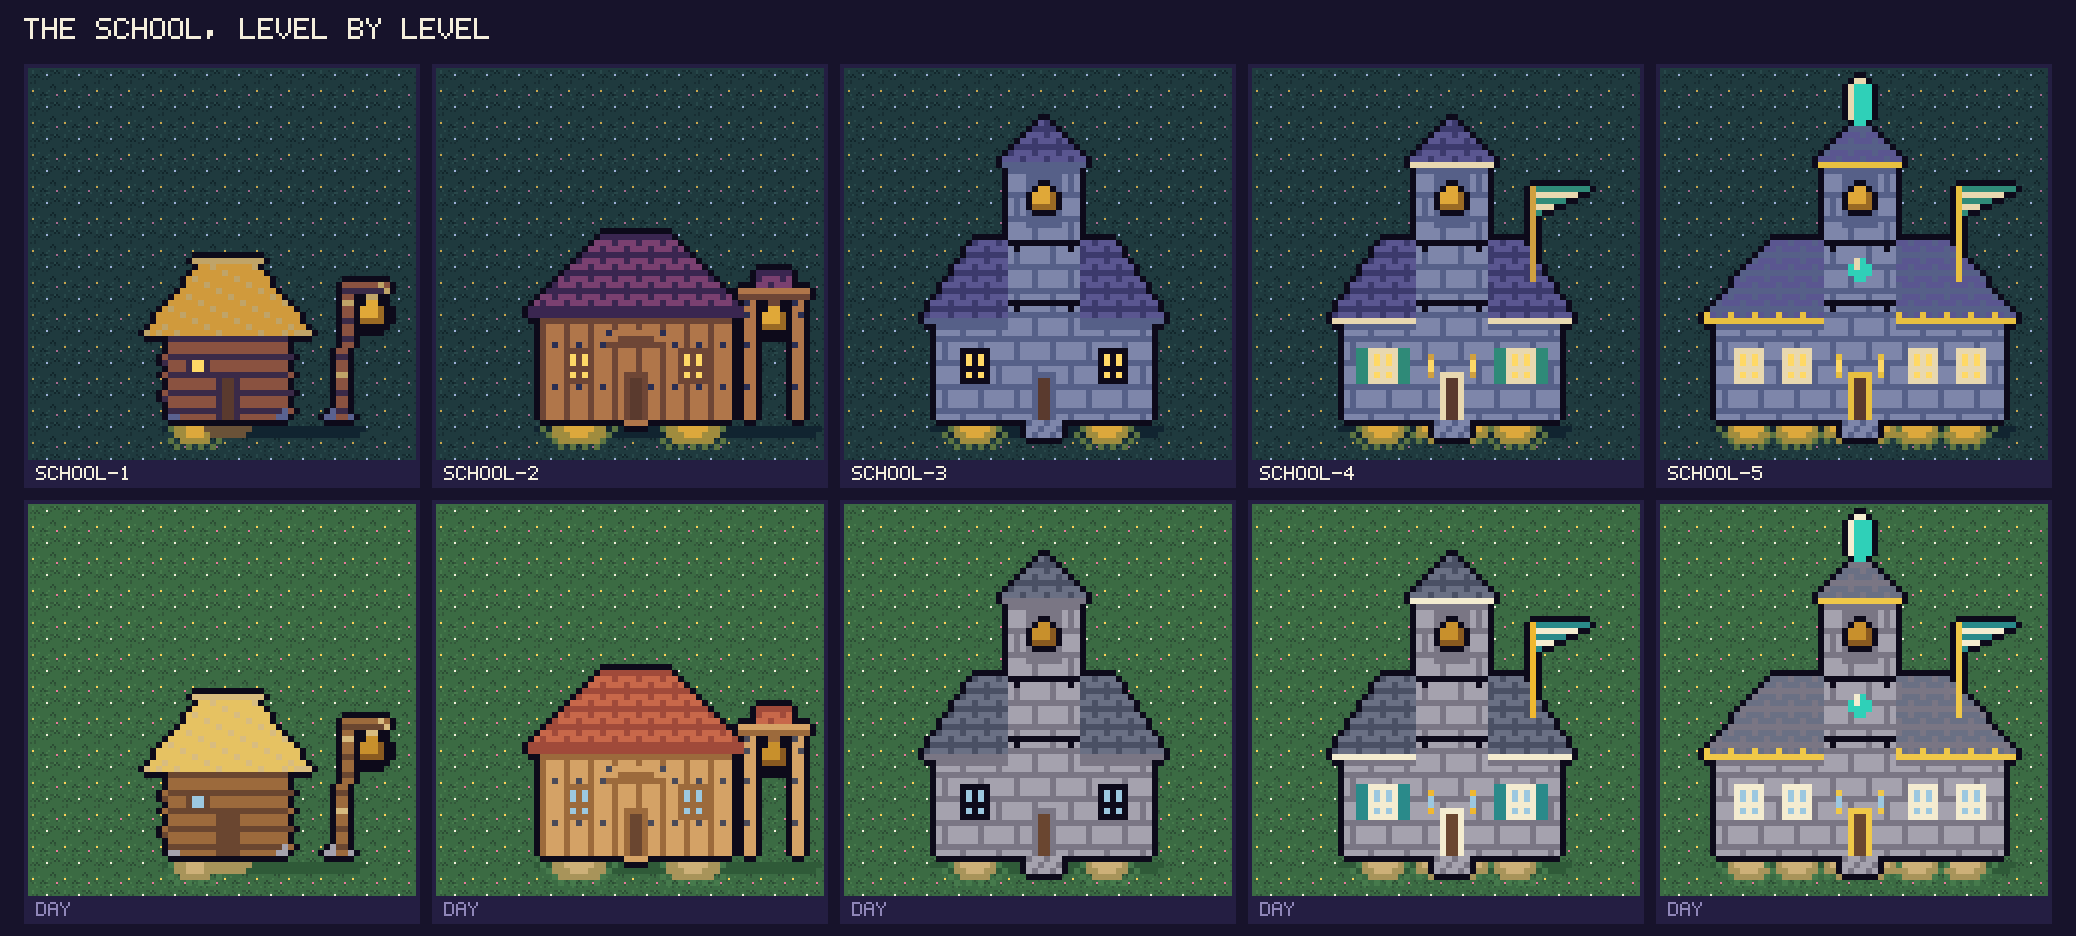
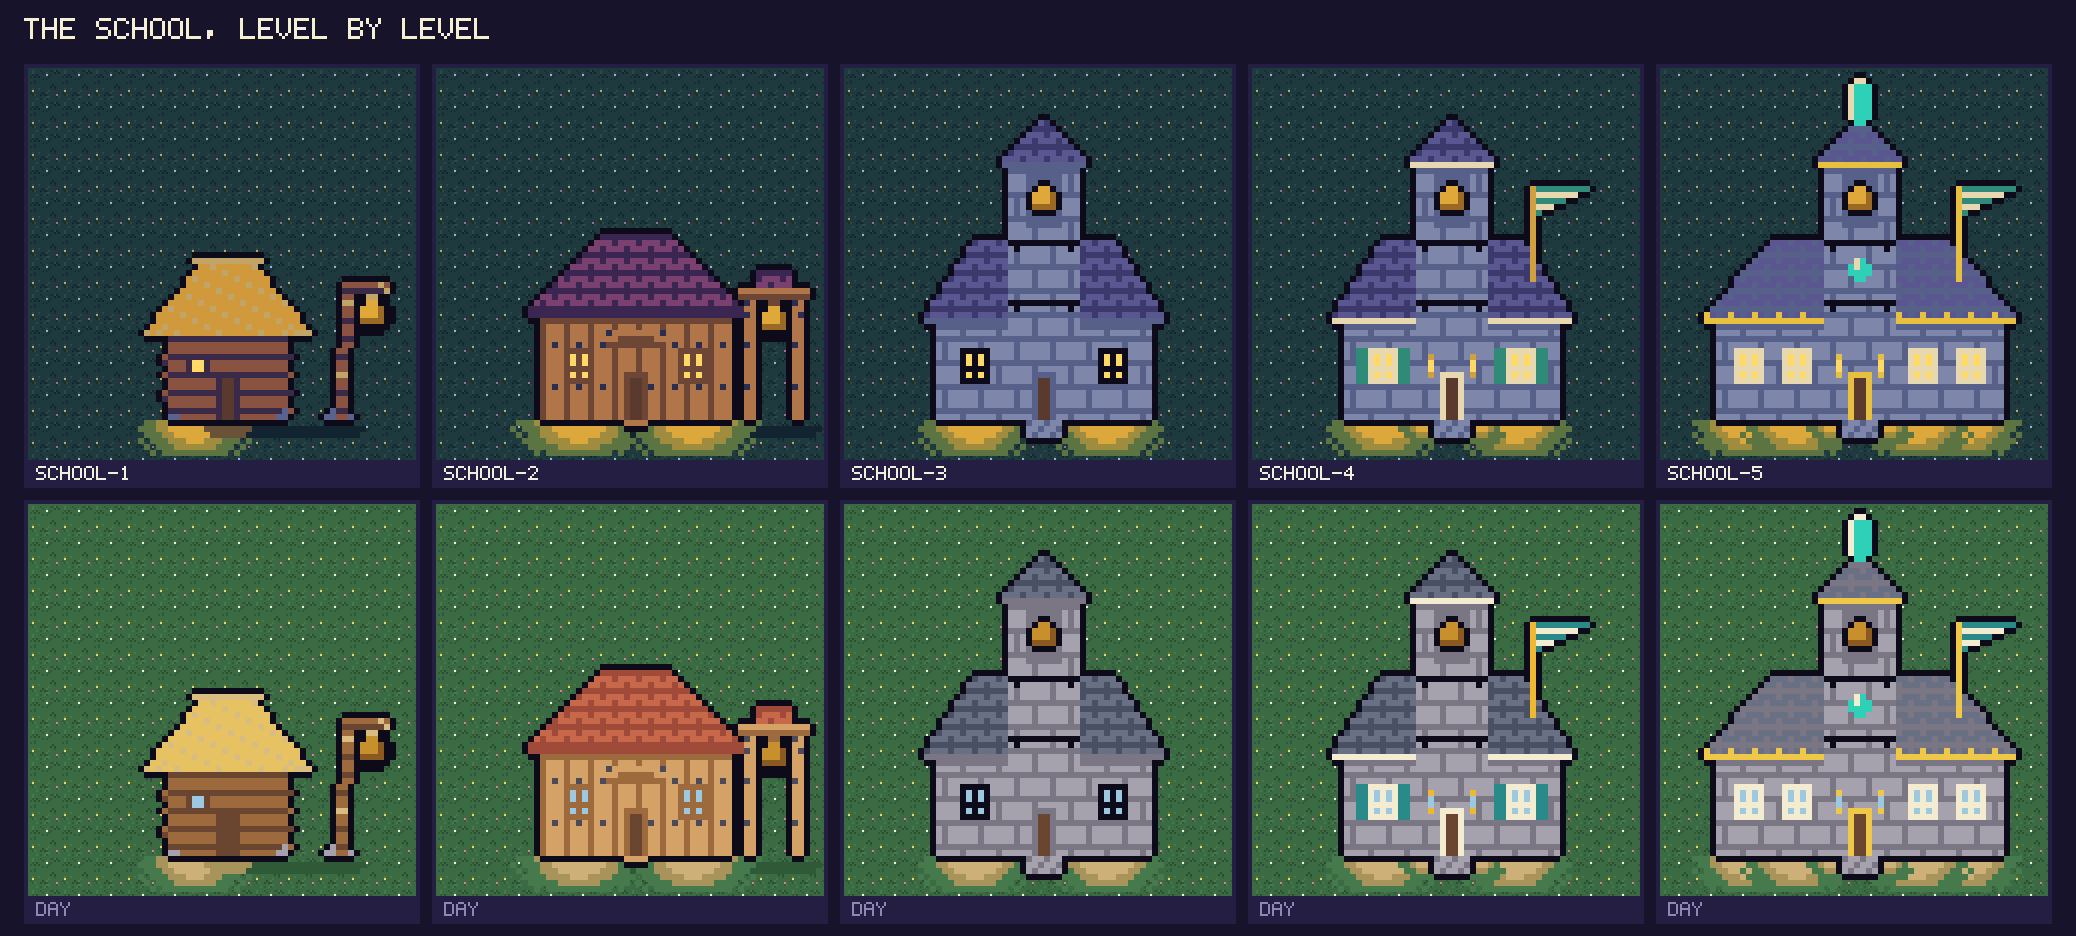
School: stepped window light on the grass
Claude-Session: https://claude.ai/code/session_01TqJ8tUAM4Muj4eb7wE4uc8

diff --git a/apps/activity/src/sprites/concepts/valley-levels-school.ts b/apps/activity/src/sprites/concepts/valley-levels-school.ts
@@ -82,13 +82,15 @@ function drawer(c: Canvas) {
       }
   };
   /** Warm light on the grass below a window or lamp: ellipse, bright core, dithered rim. */
-  const spill = (cx: number, rx: number, rows = 4): void => {
+  const spill = (cx: number, rx: number, rows = 6): void => {
     for (let dy = 0; dy < rows; dy += 1)
-      for (let x = Math.floor(cx - rx - 1); x <= Math.ceil(cx + rx + 1); x += 1) {
-        const d = Math.hypot((x + 0.5 - cx) / rx, (dy + 0.3) / rows);
-        if (d < 0.45) g(x, 59 + dy, '3');
-        else if (d < 0.8) g(x, 59 + dy, '2');
-        else if (d < 1.1 && (x + dy) % 2 === 0) g(x, 59 + dy, '1');
+      for (let x = Math.floor(cx - rx - 2); x <= Math.ceil(cx + rx + 2); x += 1) {
+        const d = Math.hypot((x + 0.5 - cx) / rx, (dy + 0.2) / rows);
+        const y = 58 + dy;
+        if (d < 0.55) g(x, y, '3');
+        else if (d < 0.8) g(x, y, '2');
+        else if (d < 1.05) g(x, y, '1');
+        else if (d < 1.25 && (x + dy) % 2 === 0) g(x, y, '1');
       }
   };
   const shadow = (x0: number, x1: number): void => {
@@ -138,7 +140,7 @@ const thatchTex = (x: number, y: number): string => ((x * 2 + y * 3) % 7 === 0 ?
 function level1(c: Canvas): void {
   const d = drawer(c);
   d.shadow(21, 52);
-  d.spill(26.5, 4.5);
+  d.spill(26.5, 8);
   for (let x = 29; x <= 34; x += 1) for (let y = 58; y <= 60; y += 1) d.g(x, y, 'e');
   d.g(28, 59, 'e');
   d.g(35, 59, 'e');
@@ -183,8 +185,8 @@ function level1(c: Canvas): void {
 function level2(c: Canvas): void {
   const d = drawer(c);
   d.shadow(15, 60);
-  d.spill(22.5, 5.5);
-  d.spill(41.5, 5.5);
+  d.spill(22.5, 9);
+  d.spill(41.5, 9);
   d.rect(30, 58, 33, 58, 'p');
   // the bell frame: two posts, a beam, a little shingled cap
   d.rect(50, 36, 51, BASE, plankTex);
@@ -226,12 +228,12 @@ function hall(c: Canvas, level: 3 | 4 | 5): void {
   const wins = wide ? [11, 19] : [18];
   const winFrame = level === 3 ? 'k' : 'm';
   for (const wx of wins) {
-    d.spill(wx + 2.5, 5);
-    d.spill(63 - wx - 2.5, 5);
+    d.spill(wx + 2.5, 8);
+    d.spill(63 - wx - 2.5, 8);
   }
   if (level >= 4) {
-    d.spill(28.5, 3.5, 3);
-    d.spill(35.5, 3.5, 3);
+    d.spill(28.5, 4.5, 4);
+    d.spill(35.5, 4.5, 4);
   }
   d.rect(29, 58, 34, 60, (x, y) => ((x + y) % 3 === 0 ? 'T' : 't'));
   // hall

diff --git a/docs/art/README.md b/docs/art/README.md
@@ -273,7 +273,7 @@ Status: **liked** means Misa approved the look; **draft** means he has not said 
 - **Status:** draft
 - **Requested:** 2026-11-09 (Misa): "Each building can absolutely change building material as it upgrades in levels, and I'm thinking we might even want to tweak the earlier levels to be less elaborate. Think the school for example. Its bell could be just on the side of the building until a bell tower replaces it in later levels. If you change materials, there needs to be a common motif between buildings of the same level... Think of how Clash of Clans brings a new look with each new town hall level."
 - **Source:** `apps/activity/src/sprites/concepts/valley-levels-school.ts` (draw it with `pnpm art valley-levels-school`)
-- **Sheet of:** `74ab75bfc6f5`
+- **Sheet of:** `35f8d97debaa`
 - Canvas 64x64 at every level, the art centred on the door axis (between x 31 and 32) and standing on the same base row: the last wall row is y 57, the ink edge y 58.
 - What the game relies on: the door is the two columns x 31-32, rows 51-57 (bottom row 57, key d), the same at every level, so the visiting teacher's yard (80x24, drawn with x 31 and 32 under the door) fits all five. A test checks it.
 - The bell is drawn at rest in a 6x6 box (4 wide with an ink rim; the old `school-bell` overlay frames need redrawing for it). Bell box top-left (x, y): level 1 (53, 37) on the post arm; level 2 (52, 38) in the timber frame; levels 3, 4 and 5 (29, 18) in the tower opening. The same numbers are `SCHOOL_BELL_BOXES` in the set file.
